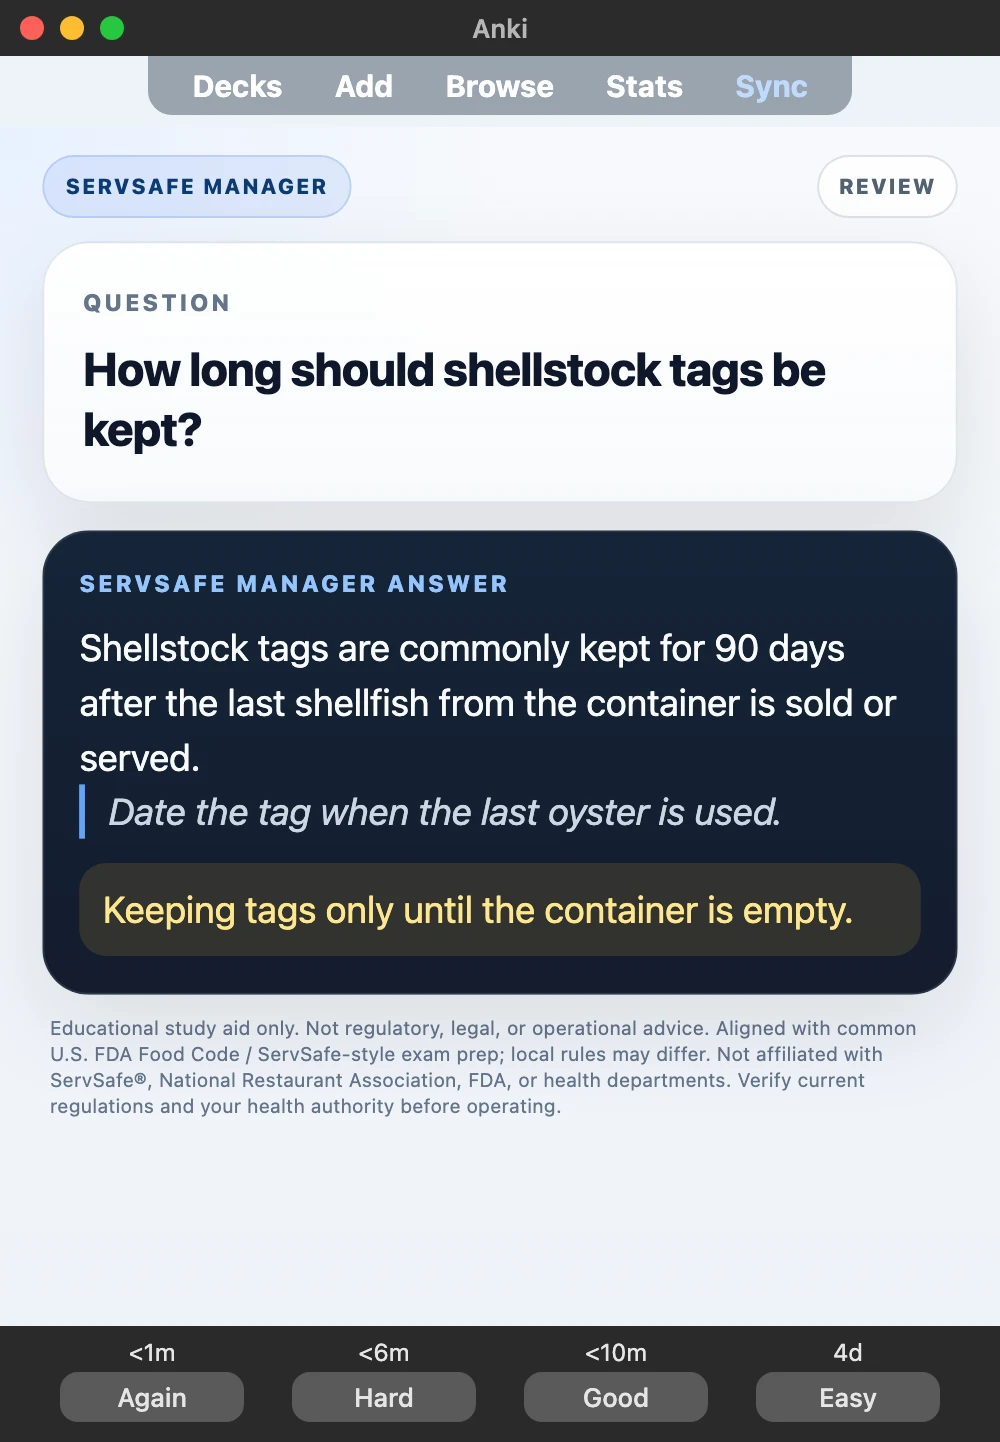
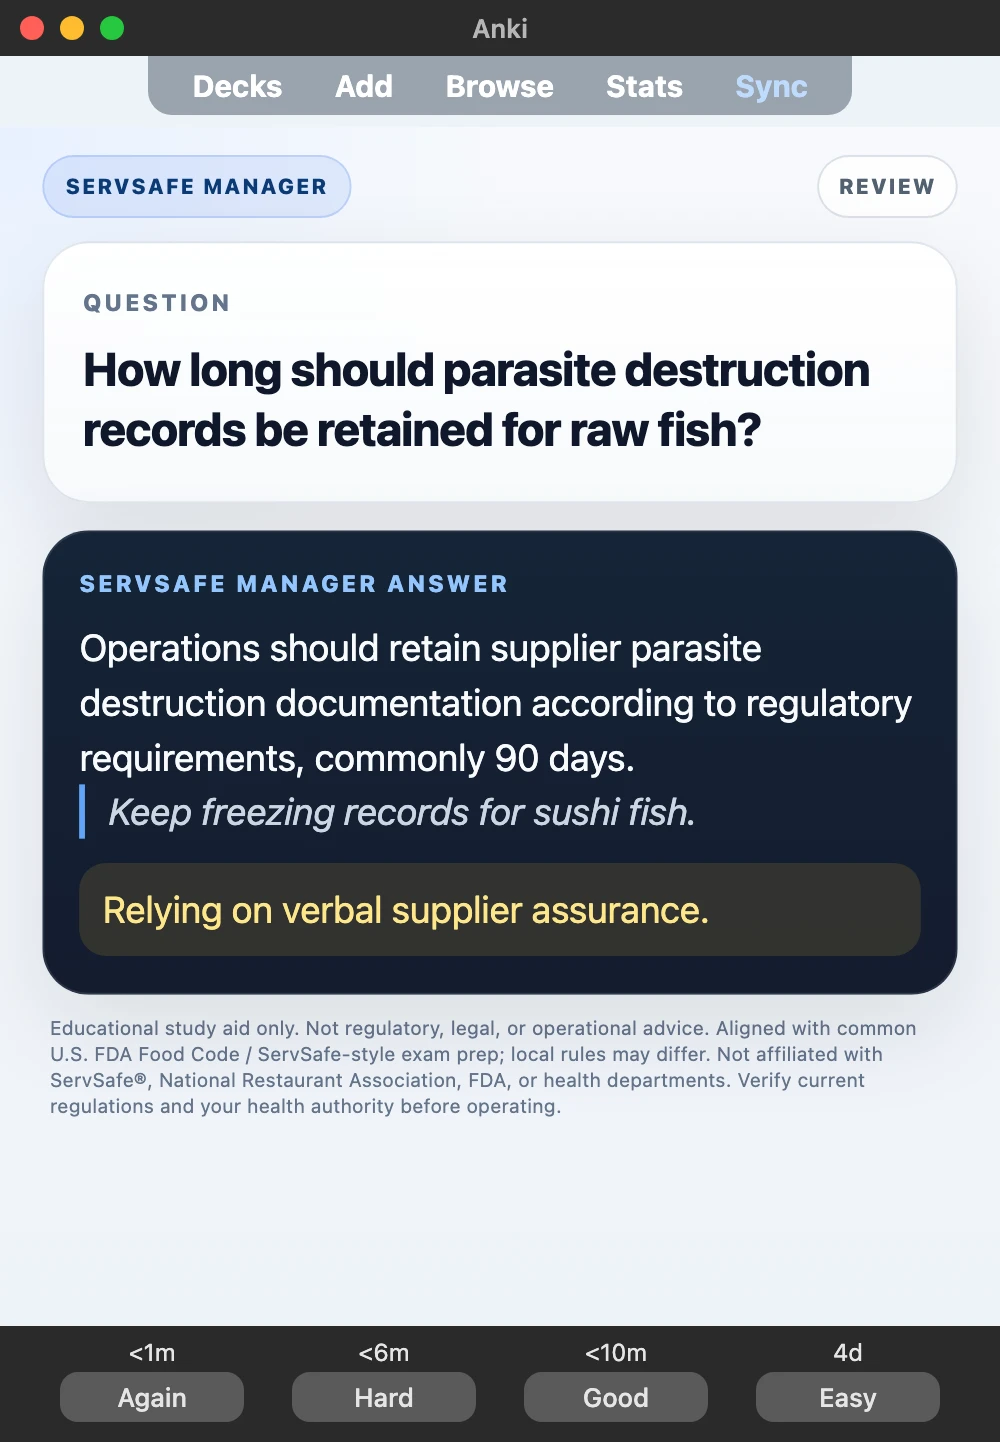
ServSafe Manager deck: expand 244 short backs, pin GUIDs, deck-sourced samples, Gumroad classic republish

Changed region(s): [[0.062, 0.4369, 0.93, 0.5929], [0.093, 0.2497, 0.868, 0.3121], [0.093, 0.6241, 0.837, 0.6553]]

diff --git a/src/lib/decks.ts b/src/lib/decks.ts
@@ -4275,21 +4275,21 @@ const rawDecks: Deck[] = [
     ],
     sampleCards: [
       {
-        question: "What if cooked TCS food reaches 70°F in 2 hours but not 41°F within 6 total hours?",
+        question: "What must be controlled when using chlorine sanitizer?",
         answer:
-          "It must be discarded because it missed the total cooling limit.",
+          "Control concentration, temperature, pH, and contact time according to label and regulation. Chlorine is commonly used at 50 to 99 ppm.",
         imageUrl: "/samples/servsafe-manager-anki-deck-sample-1.webp",
       },
       {
-        question: "How long should shellstock tags be kept?",
+        question: "How long should parasite destruction records be retained for raw fish?",
         answer:
-          "Shellstock tags are commonly kept for 90 days after the last shellfish from the container is sold or served.",
+          "Operations should retain supplier parasite destruction documentation according to regulatory requirements, commonly 90 days.",
         imageUrl: "/samples/servsafe-manager-anki-deck-sample-2.webp",
       },
       {
-        question: "When must food-contact surfaces be cleaned and sanitized?",
+        question: "How fast must TCS food made from room-temperature ingredients be cooled?",
         answer:
-          "Clean and sanitize after use, before working with different food types, after interruptions, after contamination, and at least every 4 hours during continuous use with TCS foods.",
+          "TCS food prepared from ambient ingredients must be cooled to 41°F or lower within 4 hours. The food starts near 70°F, so there is no 2-hour first stage as with cooked food.",
         imageUrl: "/samples/servsafe-manager-anki-deck-sample-3.webp",
       },
     ],

diff --git a/docs/mock-bank-qa/bank-audit-ledger.md b/docs/mock-bank-qa/bank-audit-ledger.md
@@ -16,6 +16,7 @@ Current per-SKU status + last-work date: `sku-status.md` (`npm run sku:status`).
 
 | Date | Mock slug | Deck slug | Gates | Content review | Cascade | Notes |
 |---|---|---|---|---|---|---|
+| 2026-10-15 | — (deck CSV) | `servsafe-manager-anki-deck` (pair: `servsafe-manager-mock`) | 300 notes / 300 unique / 0 drills · 0 backs < 120 chars (was 244) · median back 161 chars (was ~95) · 302/302 GUIDs unchanged vs shipped apkg | Hand-written in main chat: every one of the 244 short backs got the rule's why/how or the exact Food Code number it was missing (e.g. 50–99 ppm chlorine, 16-mesh screens, 180°F/165°F dish rinse, 90-day shellstock/parasite records, 24-h symptom-free return); fronts, examples and mistakes kept; card 85 example duplicate re-angled | Pipeline now honors `Note GUID` (`servsafe_deck_pipeline.py`), CSV got the column from the shipped apkg; apkg rebuilt + Gumroad file replaced (`replace-gumroad-apkg-files` now follows the `ldpevc` → `servsafe-manager-anki` 301); samples re-picked from the deck CSV, not mock MCQs (chlorine control, parasite-destruction records, room-temp-ingredient cooling) → `public/samples/*.webp` + `decks.ts` + `sold-samples.json`; `publish-gumroad-classic` (desc + cover + 3 shots, no custom landing) — render `--publish` now routes authored decks with landing-copy to classic; CDN 201/201 | Gumroad FAQ fixed: free version is 25 Q, full 90 Q from a 180 bank. Closes Tier A deck cascade (L&H, ServSafe rewritten; Series 63, CFA L2, PTCB already at standard). |
 | 2026-10-15 | — (deck CSV) | `life-and-health-insurance-exam-anki-deck` (pair: `life-and-health-insurance-readiness-check`) | 250 notes / 250 unique / 0 drills · 0 "What is X?" fronts (was 147) · 0 backs < 120 chars (was 157) · median back 281 chars (was 101) · 250/250 GUIDs pinned | 170 weak cards rewritten by hand in main chat (`Anki Generator/internal_deck_generator/Insurance/life_health_250_authored.csv`, backup `.bak-2026-10-15-rewrite.csv`): applied scenario fronts, rule + why backs, concrete example, named common mistake; 80 strong scenario cards kept; 5 overlaps with kept cards (AML/SAR, HSA portability, ACA rating, juvenile vs payor rider, free look) re-angled | apkg rebuilt (`insurance_deck_pipeline life_health`), Gumroad file replaced; samples re-picked from the deck CSV (picker now reads `../Insurance/` CSV instead of mock MCQs), rendered from the shipped apkg (accumulation units, UL Option A vs B, installment interest tax) → `public/samples/*.webp` + `decks.ts` + `sold-samples.json`; `publish-gumroad-classic` (desc + 3 shots); CDN 201/201 | Buyers re-importing get updates in place (same GUIDs). Also fixed pre-existing `llm-docs.test.ts` fail: llms.txt citation line now reads "ACE CPT practice test free". |
 | 2026-10-15 | `servsafe-manager-mock` | `servsafe-manager-anki-deck` (live, authored CSV — deck pass follows) | 0 FAIL / 0 WARN · triage clean · 180 items (30/30/30/42/48), keys 45 each | +90 new items written in main chat, no overlap with the 90 existing: Salmonella Typhi vs nontyphoidal, Campylobacter, C. perfringens, Staph heat-stable toxin, Vibrio, ciguatoxin, shellfish toxins, Cyclospora, FAT TOM, cut melon TCS, spores, 70–125°F, allergen ask-the-chef, mold rule; eggs hot-held 155°F, roasts 145°F/4 min, stuffed 165°F, tenderized 155°F, produce/commercial 135°F, 2-h checks, cold TPHC 6 h/70°F, running-water and microwave thaw, par-cooking, infrared vs probe, packaged-food probe, boiling point 212°F, ice paddle; jaundice, HSP exclusion, arm wound, antiseptic after washing, latex, hair restraints, handwashing sink only, no glove reuse, RTE-before-raw order, staff medicine, false nails, face touch, bare-hand exception, apron, break areas; iodine 12.5–25 ppm, sanitizer factors, 180°F dish rinse, air-dry, stationary equipment, flatware handles up, garbage, FIFO, earliest date-mark, milk 45°F, hot receiving 135°F, key-drop, working-container labels, dry storage 50–70°F, cooling ice, air curtains/16-mesh, pesticides, vacuum breaker, shatter-resistant lights, ROP fish thaw, bleach + ammonia; HACCP principles 2–7, cooling CCP, acidified sushi rice / shellfish tank / ROP variances, active managerial control, PIC all hours, training verification, STEC exclusion, water loss, outage discard, flood, pasteurized eggs for HSP, self-service exceptions, off-site labels, coving, handwashing station locations, monitoring vs verification, infestation closure, Food Code 72 h / 10 d / 90 d | Bank only; `llms:export` | Session unchanged (90 = official form length, quotas 15/15/15/21/24) now drawn from 180, so Mock Pass retakes differ; config note + seo intro say so; `mock-exams.test.ts` bank length 180. |
 | 2026-10-15 | `life-and-health-insurance-readiness-check` | `life-and-health-insurance-exam-anki-deck` (live, 250-card deck rebuilt 2026-10-03 — unchanged) | 0 FAIL / 0 WARN · triage clean · 120 items (health 25 / life basics 22 / provisions 22 / general 14 / annuities 13 / tax-regulation 13 / DI-LTC 11), keys 30 each | Full rewrite in main chat (old 60 had 40 FAIL items): scenario stems on HMO/PPO/POS, deductible + coinsurance + OOP math, COB birthday rule, Medicare A/B/C/D + Medigap, ACA, COBRA 18/36/102%, HSA/FSA, term/WL/UL/VL/IUL, nonforfeiture + settlement options, riders, per stirpes, LLN/adverse selection, contract law, annuity units/exclusion ratio, MEC/1035/LIFO, McCarran-Ferguson, replacement, FCRA, own-occ/residual/LTC triggers; every distractor note names the error; numeric items script-sorted | Deck not bank-built — no apkg change; `llms:export` | Session 60 drawn by topic quotas 13/11/11/7/6/7/5 from the 120 bank; config note now says state exams set their own length/pass score (no invented Q count); seo.ts copy no longer claims "built from deck content". Duplicate `life-health-insurance-readiness-check` retired → 301 (commit 24c55d1). |
